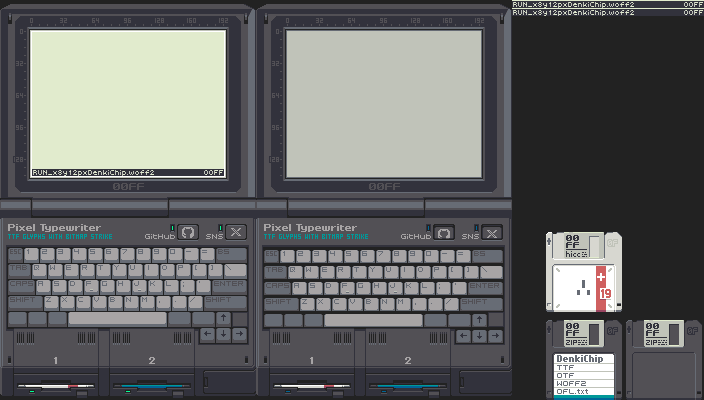
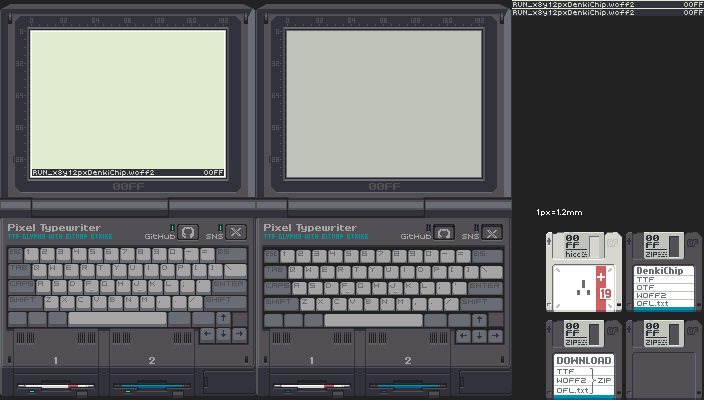
SIL版公開へ向けた文言を整理

Changed region(s): [[0.875, 0.57, 1.0, 0.78], [0.7812, 0.87, 0.875, 0.99], [0.7812, 0.51, 0.8125, 0.54]]

diff --git a/00ff/index.html b/00ff/index.html
@@ -112,7 +112,7 @@
         <a href="https://github.com/hicchicc/x5y8pxNegaTape" target="_blank" rel="noopener noreferrer">
           [README on GitHub] x5y8pxNegaTape ↗
         </a>
-        
+
       </section>
 
       <section>
@@ -129,28 +129,34 @@
       </section>
 
       <section>
-        <h2 style="color: #FFCC11">Notice: License transfer in progress</h2><small>ライセンス移行作業中のお知らせ</small>
+        <h2 style="color: #FFCC11">Notice: SIL OFL Edition Releases</h2><small>SILライセンス版の公開について</small>
         <p lang="ja">
           このセクションよりも下にあるフォントは、独自ライセンスで配布中です。<br>
-          2026年現在、すべてのフォントをSILライセンス版へ移行する準備を進めています。<br>
-          独自ライセンス版は、SILライセンス版の公開後も従来通りご利用いただけます。<br><br>
+          各フォントについて、SIL Open Font License (OFL) 版の公開を順次進めていきます。<br>
+          SILライセンス版の公開後も、既存の独自ライセンス版は、取得時点の利用規約に基づいて引き続きご利用いただけます。<br>
+          既に公開されているゲームや作品について、ライセンス表記の変更などを行っていただく必要はありません。<br><br>
 
-          国際標準レベルのライセンスの枠組みで、より安心して運用していただけるようにしたいことや、<br>
-          データもオープンな資産としてGithubへ1本化集約しつつ、国内外で解釈の格差がないようにしたい思いもあっての決断となります。<br>
-          ご迷惑おかけする点もあると思いますが、ご理解と応援のほど、よろしくお願いします！
+          今後は、国際的に広く利用されているライセンスの枠組みを採用し、より安心してご利用いただける環境を整えるとともに、<br>
+          フォントデータや関連情報をGitHubに集約し、国内外で共通の利用条件を提供できるようにしていきます。<br>
+          なお、今後の更新・不具合対応は原則としてSILライセンス版のみを対象とし、独自ライセンス版の公式配布も将来的に終了する予定です。<br>
+          ご理解と応援のほど、よろしくお願いします！
         </p>
 
         <p lang="en">
-          Fonts below this section on this site are currently distributed under a original license.<br>
-          As of 2026, we are preparing to migrate all fonts to SIL-licensed versions.<br>
-          The original license versions will continue to be available as before even after the SIL-licensed versions are
-          released.<br><br>
+          Fonts below this section on this site are currently distributed under our custom license.<br>
+          We are gradually preparing to release SIL Open Font License (OFL) editions of our fonts.<br>
+          Even after the release of an OFL edition, existing custom-licensed versions may continue to be used under the
+          terms of the license applicable at the time of acquisition.<br>
+          No changes to license notices or other actions are required for games or other works already released using
+          these versions.<br><br>
 
-          This decision was made in order to enable greater peace of mind in operations under an internationally
-          standard licensing framework,<br>
-          while also consolidating data as open assets on Github, to ensure there are no discrepancies in interpretation
-          both domestically and internationally.<br>
-          We apologize for any inconvenience this may cause, and we appreciate your understanding and support!
+          By adopting an internationally recognized licensing framework, we aim to provide a more reliable environment
+          for font users while also<br>
+          consolidating font data and related information on GitHub, making consistent licensing terms available to
+          users worldwide.<br>
+          Going forward, updates and bug fixes will generally be provided only for the OFL editions, and official
+          distribution of the original custom-licensed versions is also expected to be discontinued in the future.<br>
+          Thank you for your understanding and continued support!
         </p>
       </section>
 
@@ -544,87 +550,87 @@
         container.appendChild(patch);
         elements[code] = patch;
 
-        
-      // --- SNSボタン設定 20261104追加 ---
-      // [名称, x, y, w, h, URL, LEDのx, LEDのy, LEDのw, LEDのh]
-      const SOCIAL_MAP = [
-        ['GitHub', 176, 224, 24, 20,
-          'https://github.com/hicchicc',
-          168, 224, 8, 16],
 
-        ['X', 224, 224, 24, 20,
-          'https://x.com/hicchicc',
-          216, 224, 8, 16]
-      ];
+        // --- SNSボタン設定 20261104追加 ---
+        // [名称, x, y, w, h, URL, LEDのx, LEDのy, LEDのw, LEDのh]
+        const SOCIAL_MAP = [
+          ['GitHub', 176, 224, 24, 20,
+            'https://github.com/hicchicc',
+            168, 224, 8, 16],
 
-      SOCIAL_MAP.forEach(([name, x, y, w, h, url, lx, ly, lw, lh]) => {
+          ['X', 224, 224, 24, 20,
+            'https://x.com/hicchicc',
+            216, 224, 8, 16]
+        ];
 
-        // LEDパッチ生成
-        const led = document.createElement('div');
-        led.className = 'social-led';
+        SOCIAL_MAP.forEach(([name, x, y, w, h, url, lx, ly, lw, lh]) => {
 
-        Object.assign(led.style, {
-          left: `${lx}px`,
-          top: `${ly}px`,
-          width: `${lw}px`,
-          height: `${lh}px`,
-          backgroundPosition: `-${SPRITE_OFFSET + lx}px -${ly}px`
+          // LEDパッチ生成
+          const led = document.createElement('div');
+          led.className = 'social-led';
+
+          Object.assign(led.style, {
+            left: `${lx}px`,
+            top: `${ly}px`,
+            width: `${lw}px`,
+            height: `${lh}px`,
+            backgroundPosition: `-${SPRITE_OFFSET + lx}px -${ly}px`
+          });
+
+          container.appendChild(led);
+
+          // SNSボタン生成
+          const button = document.createElement('a');
+          button.className = 'social-patch';
+          button.href = url;
+          button.target = '_blank';
+          button.rel = 'noopener noreferrer';
+          button.setAttribute('aria-label', name);
+          button.title = name;
+
+          Object.assign(button.style, {
+            left: `${x}px`,
+            top: `${y}px`,
+            width: `${w}px`,
+            height: `${h}px`,
+            backgroundPosition: `-${SPRITE_OFFSET + x}px -${y}px`
+          });
+
+          // ホバーでLED点滅開始
+          button.addEventListener('mouseenter', () => {
+            led.classList.add('is-blinking');
+          });
+
+          // ホバー解除でLED停止
+          button.addEventListener('mouseleave', () => {
+            led.classList.remove('is-blinking');
+          });
+
+          // キーボード操作でフォーカスされた場合も点滅
+          button.addEventListener('focus', () => {
+            led.classList.add('is-blinking');
+          });
+
+          button.addEventListener('blur', () => {
+            led.classList.remove('is-blinking');
+          });
+
+          // マウス押下でボタン画像を表示
+          button.addEventListener('pointerdown', () => {
+            button.style.opacity = '1';
+          });
+
+          // 押下解除で透明化
+          const releaseButton = () => {
+            button.style.opacity = '0';
+          };
+
+          button.addEventListener('pointerup', releaseButton);
+          button.addEventListener('pointerleave', releaseButton);
+          button.addEventListener('blur', releaseButton);
+
+          container.appendChild(button);
         });
-
-        container.appendChild(led);
-
-        // SNSボタン生成
-        const button = document.createElement('a');
-        button.className = 'social-patch';
-        button.href = url;
-        button.target = '_blank';
-        button.rel = 'noopener noreferrer';
-        button.setAttribute('aria-label', name);
-        button.title = name;
-
-        Object.assign(button.style, {
-          left: `${x}px`,
-          top: `${y}px`,
-          width: `${w}px`,
-          height: `${h}px`,
-          backgroundPosition: `-${SPRITE_OFFSET + x}px -${y}px`
-        });
-
-        // ホバーでLED点滅開始
-        button.addEventListener('mouseenter', () => {
-          led.classList.add('is-blinking');
-        });
-
-        // ホバー解除でLED停止
-        button.addEventListener('mouseleave', () => {
-          led.classList.remove('is-blinking');
-        });
-
-        // キーボード操作でフォーカスされた場合も点滅
-        button.addEventListener('focus', () => {
-          led.classList.add('is-blinking');
-        });
-
-        button.addEventListener('blur', () => {
-          led.classList.remove('is-blinking');
-        });
-
-        // マウス押下でボタン画像を表示
-        button.addEventListener('pointerdown', () => {
-          button.style.opacity = '1';
-        });
-
-        // 押下解除で透明化
-        const releaseButton = () => {
-          button.style.opacity = '0';
-        };
-
-        button.addEventListener('pointerup', releaseButton);
-        button.addEventListener('pointerleave', releaseButton);
-        button.addEventListener('blur', releaseButton);
-
-        container.appendChild(button);
-      });
 
       });
 
